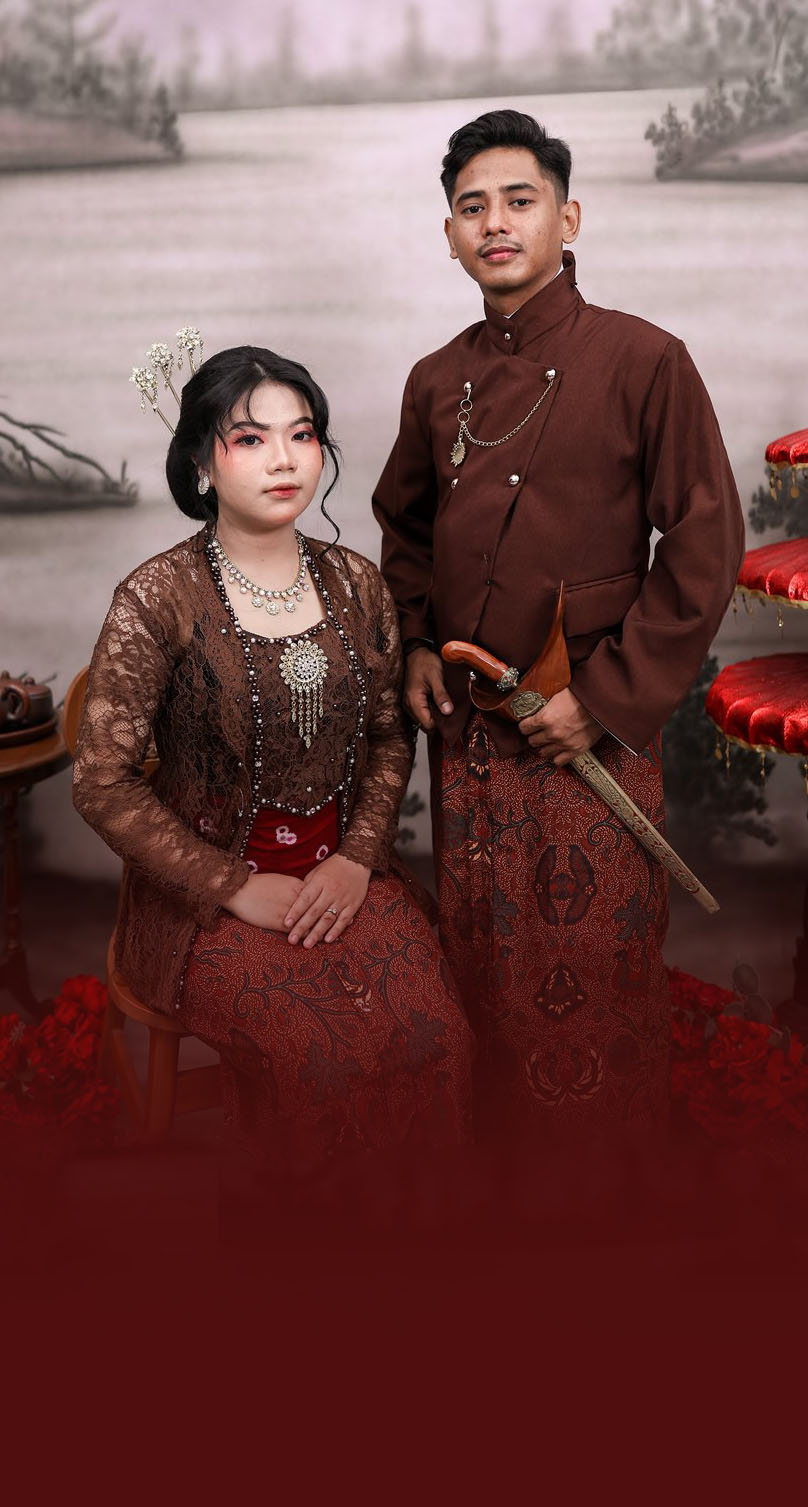
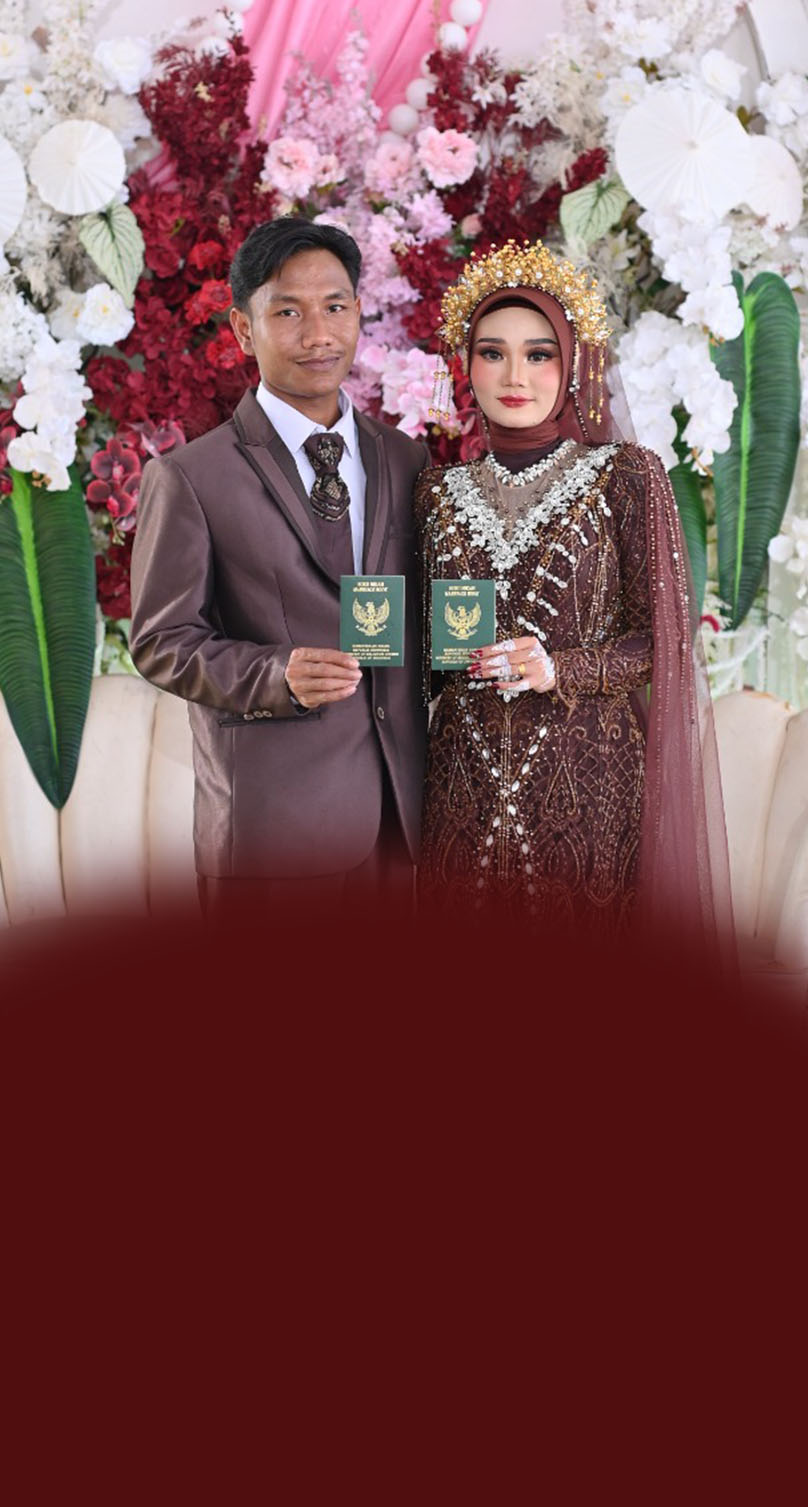
tambah galeri

diff --git a/src/constants/invitation.ts b/src/constants/invitation.ts
@@ -1,4 +1,11 @@
-import gallery1 from "../assets/images/aqadan.jpeg";
+import gallery0 from "../assets/images/aqadan.jpeg";
+import gallery1 from "../assets/images/galeri1.jpeg";
+import gallery2 from "../assets/images/galeri2.jpeg";
+import gallery3 from "../assets/images/galeri3.jpeg";
+import gallery4 from "../assets/images/galeri4.jpeg";
+import gallery5 from "../assets/images/galeri5.jpeg";
+import hadi from "../assets/images/hadi.jpg";
+import diyan from "../assets/images/diyan.jpg";
 
 export const invitation = {
   groom: {
@@ -36,9 +43,13 @@ export const invitation = {
 
   gallery: [
     gallery1,
-    "https://images.unsplash.com/photo-1519741497674-611481863552?q=80&w=1200",
-    "https://images.unsplash.com/photo-1511285560929-80b456fea0bc?q=80&w=1200",
-    "https://images.unsplash.com/photo-1519225421980-715cb0215aed?q=80&w=1200",
+    gallery0,
+    gallery2,
+    gallery3,
+    gallery4,
+    gallery5,
+    hadi,
+    diyan,
   ],
 
   story: [

diff --git a/src/components/invitation/CoupleSection.vue b/src/components/invitation/CoupleSection.vue
@@ -52,8 +52,7 @@ defineProps<{
                     <!-- Photo -->
                     <div class="couple-photo">
 
-                        <img src="https://images.unsplash.com/photo-1500648767791-00dcc994a43e?q=80&w=800"
-                            :alt="invitation.groom.fullName" />
+                        <img :src="invitation.gallery[6]" :alt="invitation.groom.fullName" />
 
                     </div>
 
@@ -134,8 +133,7 @@ defineProps<{
                     <!-- Photo -->
                     <div class="couple-photo">
 
-                        <img src="https://images.unsplash.com/photo-1534528741775-53994a69daeb?q=80&w=800"
-                            :alt="invitation.bride.fullName" />
+                        <img :src="invitation.gallery[7]" :alt="invitation.bride.fullName" />
 
                     </div>
 
